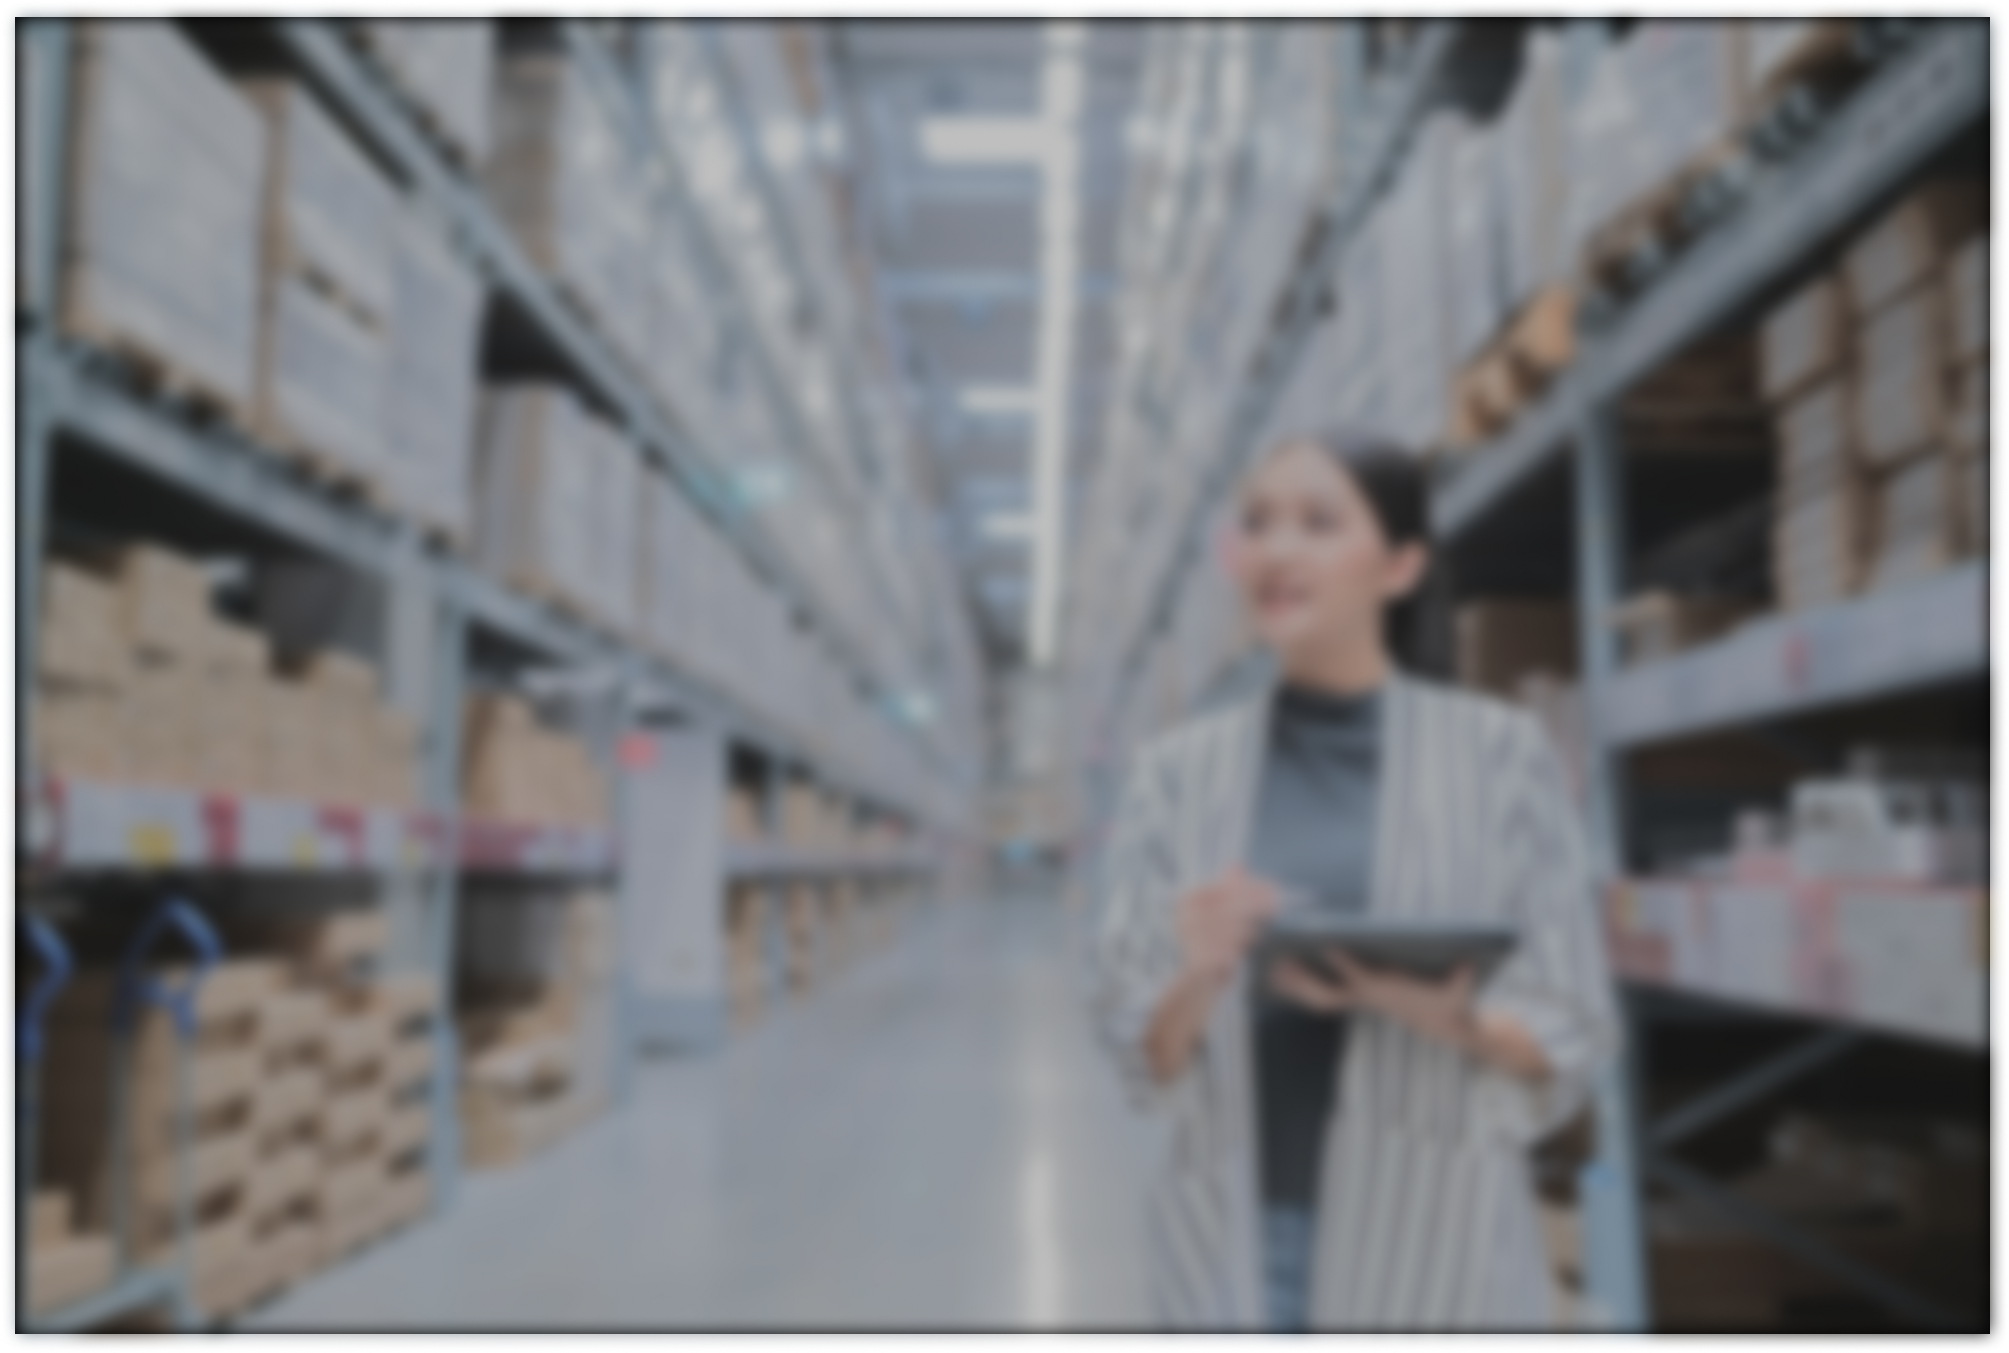
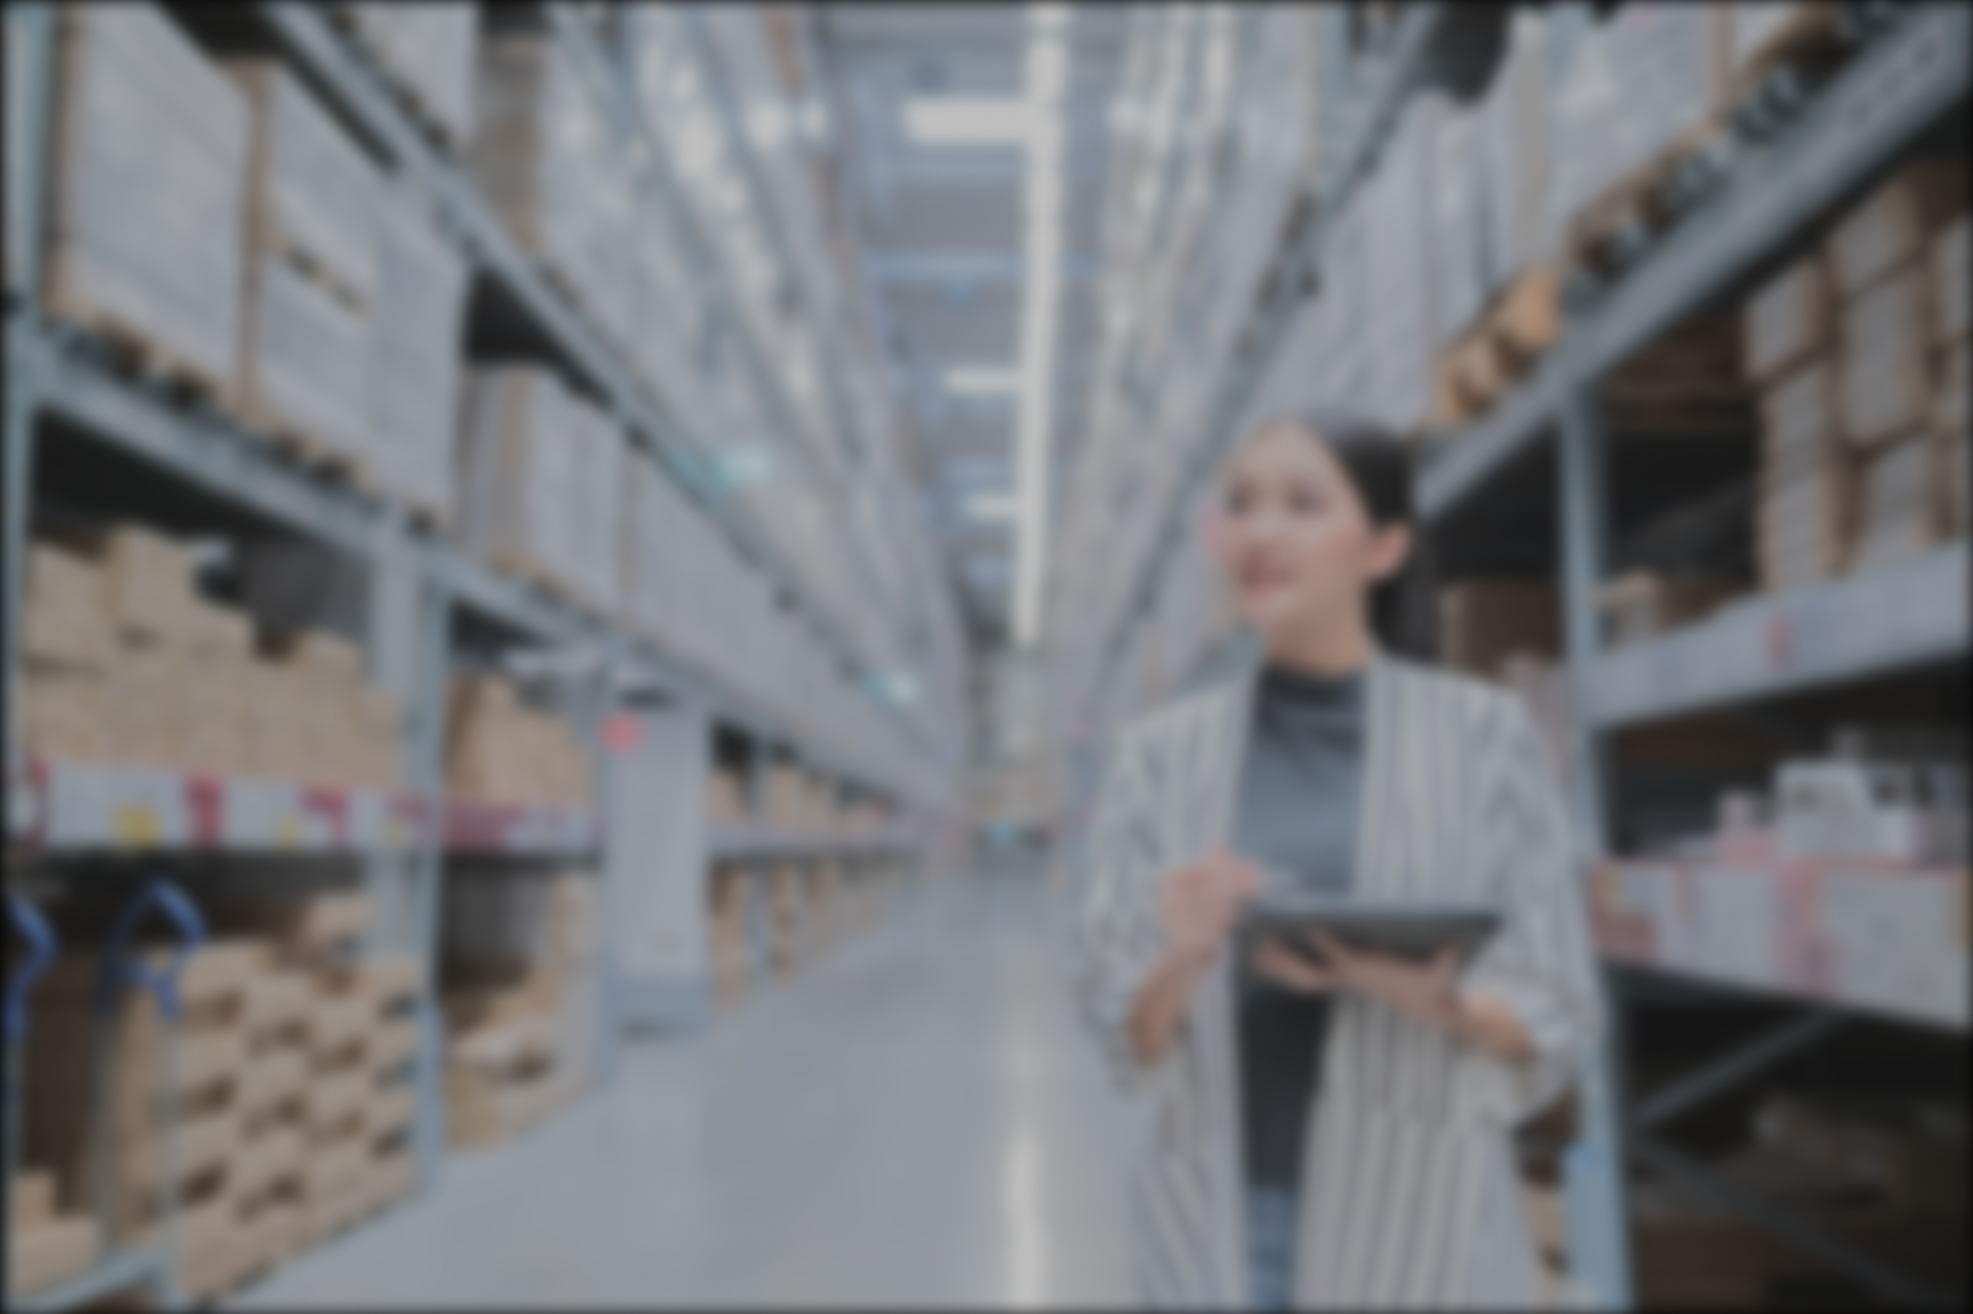
Fixed image border issue

diff --git a/ALLProject/templates/registration/login.html b/ALLProject/templates/registration/login.html
@@ -1,10 +1,13 @@
 {% load static %}
 <!DOCTYPE html>
 <html>
+    <head>
     <link rel = "stylesheet" href="{% static 'css/index.css' %}">
     <title>{% block title %} 
         User Login
     {% endblock title %} </title>
+    </head>
+    
     <body>
         <div id="form-container">
             <div id="form-left">

diff --git a/ALLProject/static/css/index.css b/ALLProject/static/css/index.css
@@ -1,6 +1,8 @@
 @media only screen and (max-width: 1920px) {
     body {
         margin: 0%;
+        padding: 0;
+        border : 0;
         background-image: url(../images/warehouse-1.jpg);
     }
 
